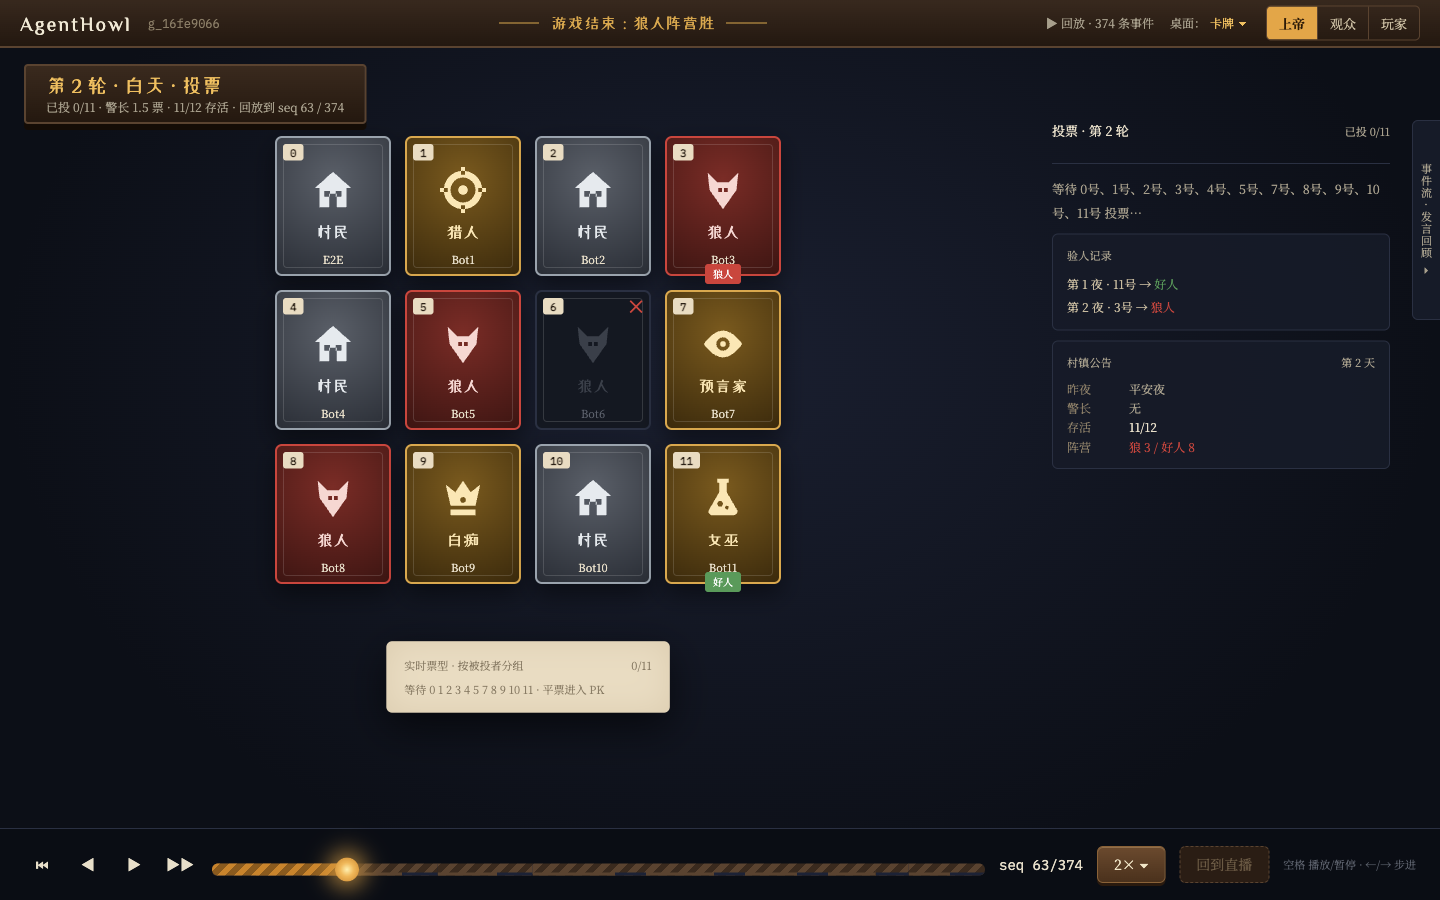
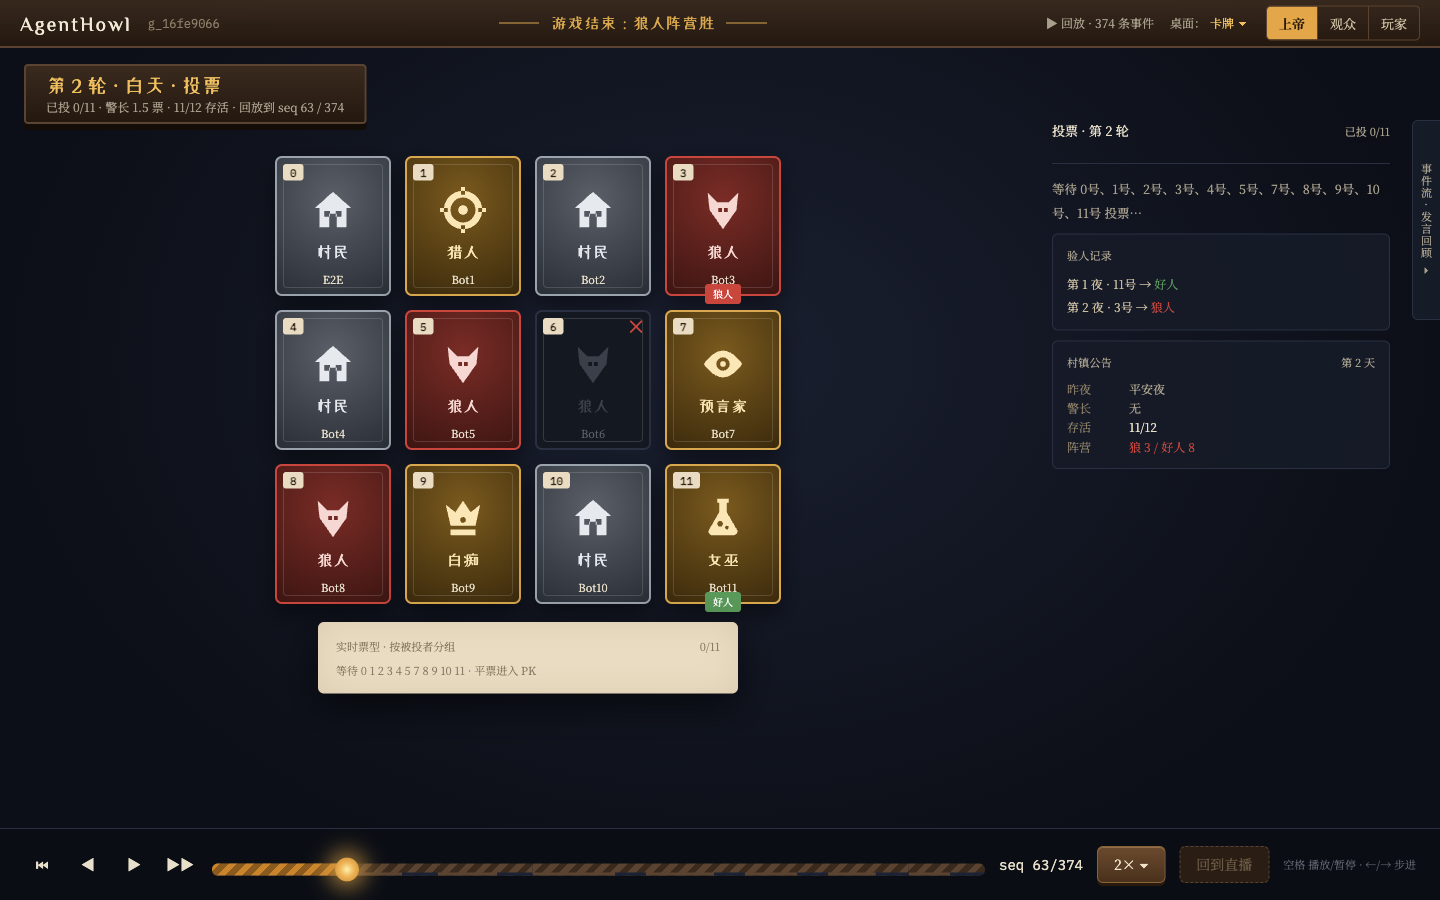
fix(frontend): 评审修复——卡牌模式桌心容器随内容、无内容不挂；夜间选中牌篝火边；桌子区给木牌让位并可滚动；皮肤切换保留选中的用例

Changed region(s): [[0.1875, 0.1244, 0.5625, 0.8089]]

diff --git a/frontend/src/components/GameTable/CardBoard.module.css b/frontend/src/components/GameTable/CardBoard.module.css
@@ -150,49 +150,50 @@
   color: #5a5f6a;
 }
 
-/* ---- 状态 ---- */
-.piece[data-selectable] {
-  cursor: pointer;
-}
-
-.piece[data-selectable]:hover,
-.piece[data-selected] {
-  border-color: var(--ah-fire);
-  box-shadow: 0 0 24px rgba(227, 166, 72, 0.6);
-}
-
-.piece[data-me] {
-  border-color: var(--ah-fire);
-}
-
-.piece[data-speaking] {
-  transform: translateY(-8px);
-  border-color: var(--ah-gold);
-  box-shadow: 0 0 28px rgba(240, 192, 96, 0.55);
-}
-
-.piece[data-leader] {
-  border-color: var(--ah-gold);
-}
-
-.piece[data-dim] {
-  opacity: 0.55;
-}
-
-.piece[data-target] {
-  opacity: 1;
-  transform: translateY(-6px);
-  box-shadow: 0 0 24px rgba(201, 70, 61, 0.5);
-}
-
+/* ---- 状态（写在夜间牌背规则之后，用 .root .grid .piece[...] 保证特异性 ≥ 夜间规则） ---- */
 .root[data-night] .piece[data-face='back'] {
   background: linear-gradient(180deg, var(--ah-table-night), var(--ah-table-night-edge));
   border-color: #3a4260;
 }
 
 .root[data-night] .backText,
-.root[data-night] .name {
+.root[data-night] .piece[data-face='back'] .name {
   color: #8a92a8;
+}
+
+.root .grid .piece[data-selectable] {
+  cursor: pointer;
+}
+
+.root .grid .piece[data-dim] {
+  opacity: 0.55;
+}
+
+.root .grid .piece[data-me] {
+  border-color: var(--ah-fire);
+}
+
+.root .grid .piece[data-leader] {
+  border-color: var(--ah-gold);
+}
+
+.root .grid .piece[data-speaking] {
+  transform: translateY(-8px);
+  border-color: var(--ah-gold);
+  box-shadow: 0 0 28px rgba(240, 192, 96, 0.55);
+}
+
+.root .grid .piece[data-target] {
+  opacity: 1;
+  transform: translateY(-6px);
+  box-shadow: 0 0 24px rgba(201, 70, 61, 0.5);
+}
+
+.root .grid .piece[data-selectable]:hover,
+.root .grid .piece[data-selected] {
+  opacity: 1;
+  border-color: var(--ah-fire);
+  box-shadow: 0 0 24px rgba(227, 166, 72, 0.6);
 }
 
 /* ---- 徽章 ---- */
@@ -269,11 +270,19 @@
   background: var(--ah-wolf);
 }
 
-/* 桌心内容本是圆桌中央的绝对定位块：这里给它一个有高度的相对容器，落在牌阵下方 */
+/* 桌心内容本是圆桌中央的绝对定位块：卡牌模式下改成文档流，高度随内容 */
 .center {
   position: relative;
   width: 100%;
-  min-height: 150px;
+  display: flex;
+  justify-content: center;
+}
+
+.center > * {
+  position: static;
+  transform: none;
+  width: 100%;
+  max-width: 420px;
 }
 
 @media (max-width: 560px) {

diff --git a/frontend/src/pages/GamePage.test.tsx b/frontend/src/pages/GamePage.test.tsx
@@ -331,6 +331,38 @@ describe("GamePage 玩家视角（issue #115）", () => {
     expect(screen.getByRole("button", { name: "0号" })).toHaveAttribute("aria-pressed", "true");
     expect(screen.getByRole("button", { name: "确认投票 · 0号" })).toBeEnabled();
   });
+
+  it("投票中切换桌面皮肤：选中目标保留，卡牌上可选座位仍可点并同步 HUD，切回圆桌亦然（规格 §7）", async () => {
+    stubPlayerFetch(playerState);
+    stubSocket(true);
+    render(<GamePage gameId="g_x" token="P" />);
+    await screen.findByText("2号 · P2");
+    act(() =>
+      useTurn.getState().setPrompt({
+        observation: { ...playerState, phase: "VOTE" } as never,
+        available_tools: ["vote", "get_state"] as never,
+        deadline_ts: Date.now() / 1000 + 60,
+      }),
+    );
+    fireEvent.click(await screen.findByRole("button", { name: /^0号 P0/ }));
+    fireEvent.change(screen.getByLabelText("桌面皮肤"), { target: { value: "cards" } });
+    expect(await screen.findByTestId("card-board")).toBeInTheDocument();
+    expect(document.querySelector('button[data-seat="0"]')).toHaveAttribute(
+      "data-selected",
+      "true",
+    );
+    expect(screen.getByRole("button", { name: "确认投票 · 0号" })).toBeEnabled();
+    const card1 = document.querySelector('button[data-seat="1"][data-selectable]') as HTMLElement;
+    expect(card1).not.toBeNull();
+    fireEvent.click(card1);
+    expect(screen.getByRole("button", { name: "确认投票 · 1号" })).toBeEnabled();
+    fireEvent.change(screen.getByLabelText("桌面皮肤"), { target: { value: "round" } });
+    expect(screen.queryByTestId("card-board")).toBeNull();
+    expect(screen.getByRole("button", { name: /^1号 P1/ })).toHaveAttribute(
+      "data-selected",
+      "true",
+    );
+  });
 });
 
 describe("metaFromState 公开规则（issue #80）", () => {

diff --git a/frontend/src/components/GameTable/CardBoard.layout.test.ts b/frontend/src/components/GameTable/CardBoard.layout.test.ts
@@ -1,0 +1,34 @@
+// @vitest-environment node
+// 卡牌皮肤 CSS 守卫（评审 PR ⑤）：夜间牌背规则不得压过选中 / 本人的篝火边；卡牌模式下桌子区给阶段木牌让位并可滚动。
+import { readFileSync } from "node:fs";
+import { describe, expect, it } from "vitest";
+
+const cards = readFileSync(new URL("./CardBoard.module.css", import.meta.url), "utf8");
+const page = readFileSync(new URL("../../pages/GamePage.module.css", import.meta.url), "utf8");
+
+describe("CardBoard.module.css", () => {
+  it("选中 / 本人 / 发言 / 领先的边框规则写在夜间牌背规则之后且特异性不低于它", () => {
+    const night = cards.indexOf(".root[data-night] .piece[data-face='back']");
+    expect(night).toBeGreaterThan(-1);
+    for (const sel of [
+      ".root .grid .piece[data-selected]",
+      ".root .grid .piece[data-me]",
+      ".root .grid .piece[data-speaking]",
+      ".root .grid .piece[data-leader]",
+    ]) {
+      expect(cards.indexOf(sel), sel).toBeGreaterThan(night);
+    }
+    expect(cards).toMatch(/\.root \.grid \.piece\[data-selected\][^{]*{[^}]*opacity:\s*1/);
+  });
+  it("桌心容器不再固定 min-height，桌心内容改为跟随文档流", () => {
+    expect(cards).not.toMatch(/\.center\s*{[^}]*min-height/);
+    expect(cards).toMatch(/\.center > \*\s*{[^}]*position:\s*static/);
+  });
+});
+
+describe("GamePage.module.css 卡牌模式", () => {
+  it("tableArea[data-table='cards'] 顶部给阶段木牌让位并允许纵向滚动", () => {
+    expect(page).toMatch(/\.tableArea\[data-table='cards'\]\s*{[^}]*padding-top:\s*7\dpx/);
+    expect(page).toMatch(/\.tableArea\[data-table='cards'\]\s*{[^}]*overflow-y:\s*auto/);
+  });
+});

diff --git a/frontend/src/components/GameTable/CardBoard.tsx b/frontend/src/components/GameTable/CardBoard.tsx
@@ -37,7 +37,11 @@ export default function CardBoard({
 }: GameTableProps): JSX.Element {
   const maxVotes = Math.max(0, ...seats.map((s) => s.badges.votes ?? 0));
   const speaker = speech === null ? null : (seats.find((s) => s.seat === speech.speaker) ?? null);
-  const showCenter = center.kind !== "none" && center.kind !== "campfire";
+  // 桌心内容：只有 TableCenter 真会画东西时才挂容器——空盒子会把发言条挤出视口（评审 PR ⑤）
+  const showCenter =
+    center.kind !== "none" &&
+    center.kind !== "campfire" &&
+    !(center.kind === "bubble" && center.lastTally === null);
 
   return (
     <div className={styles.root} data-night={night ? "true" : undefined} data-testid="card-board">
@@ -133,7 +137,7 @@ export default function CardBoard({
       </div>
 
       {showCenter && (
-        <div className={styles.center}>
+        <div className={styles.center} data-testid="card-center">
           <TableCenter content={center} seats={seats} />
         </div>
       )}

diff --git a/frontend/src/components/GameTable/CardBoard.test.tsx b/frontend/src/components/GameTable/CardBoard.test.tsx
@@ -149,4 +149,25 @@ describe("CardBoard（规格 §7 卡牌皮肤）", () => {
     );
     expect(screen.getByText(/已投 1\/3|1\/3/)).toBeInTheDocument();
   });
+
+  it("发言阶段没有上轮票型时不渲染桌心容器（否则空盒子把发言条挤出视口）；有票型才渲染", () => {
+    const { rerender } = render(
+      <CardBoard
+        {...base}
+        seats={many(4)}
+        center={{ kind: "bubble", speaker: 1, lastTally: null }}
+      />,
+    );
+    expect(screen.queryByTestId("card-center")).toBeNull();
+    rerender(
+      <CardBoard
+        {...base}
+        seats={many(4)}
+        center={{ kind: "bubble", speaker: 1, lastTally: "4号 ·4 ← 2 5" }}
+      />,
+    );
+    expect(screen.getByTestId("card-center")).toBeInTheDocument();
+    rerender(<CardBoard {...base} seats={many(4)} center={{ kind: "moon", sub: "x" }} />);
+    expect(screen.getByTestId("card-center")).toBeInTheDocument();
+  });
 });

diff --git a/frontend/src/pages/GamePage.tsx b/frontend/src/pages/GamePage.tsx
@@ -726,7 +726,7 @@ export default function GamePage({ gameId, token, share, viewer }: GamePageProps
       />
 
       <div className={styles.stage}>
-        <div className={styles.tableArea}>
+        <div className={styles.tableArea} data-table={tableStyle}>
           <div className={styles.plaque}>
             <PhasePlaque state={view} events={visibleEvents} cursor={cursor} total={totalSeq} />
           </div>

diff --git a/frontend/src/pages/GamePage.module.css b/frontend/src/pages/GamePage.module.css
@@ -38,6 +38,13 @@
   --table-max: 560px;
 }
 
+/* 卡牌皮肤（规格 §7）：牌阵顶对齐、给左上阶段木牌让位，放不下时纵向滚动而不是被裁 */
+.tableArea[data-table='cards'] {
+  padding-top: 72px;
+  overflow-y: auto;
+  place-items: start center;
+}
+
 .plaque {
   position: absolute;
   left: 0;

diff --git a/docs/design/ui-gamified-2026-10-28/README.md b/docs/design/ui-gamified-2026-10-28/README.md
@@ -67,7 +67,7 @@
 ## PR ⑤ 卡牌皮肤
 
 顶栏「桌面：圆桌 ▾ / 卡牌 ▾」切换并记在 `localStorage["agenthowl.tableStyle"]`。玩家视角截图来自
-`AH_TABLE=cards RUN=cards-wolf AH_SEED=2 RUN_SHERIFF=1 node play.mjs`（狼视角，g_5dd0074d：`finished: true / rejected: [] / mismatches: 0 / stalls: 0`）；
+`AH_TABLE=cards RUN=cards-wolf AH_SEED=2 RUN_SHERIFF=1 node play.mjs`（狼视角，g_0a185b1b：`finished: true / rejected: [] / mismatches: 0 / stalls: 0`）；
 上帝回放截图来自 `AH_TABLE=cards AH_GAME=g_16fe9066 node screens.mjs`。
 
 | 文件 | 画面 | 设计稿 |
@@ -77,4 +77,4 @@
 | `11-cards-vote-turn.png` | 投票：票数挂牌底篝火签，领先者金边；桌心票型在牌阵下方 | 7e |
 | `11-cards-day-speech-turn.png` | 白天发言：牌阵下方横向羊皮纸发言条（44px 徽记 + 头行 + 正文 + 进度条） | 6b |
 | `11-cards-gm-replay-{night,sheriff,speech,vote,over,drawer}.png` | 上帝回放：已知身份正面朝上、出局灰牌仍显身份 + ✕ 章 | 6a / 6b |
-| `11-cards-game-1100.png` / `11-cards-game-390.png` | 1100 / 390 宽的牌阵降级 | — |
+| `11-cards-game-1100.png` / `11-cards-game-390.png` | 1100 / 390 宽：牌阵顶对齐、放不下时纵向滚动（无横向溢出） | — |
